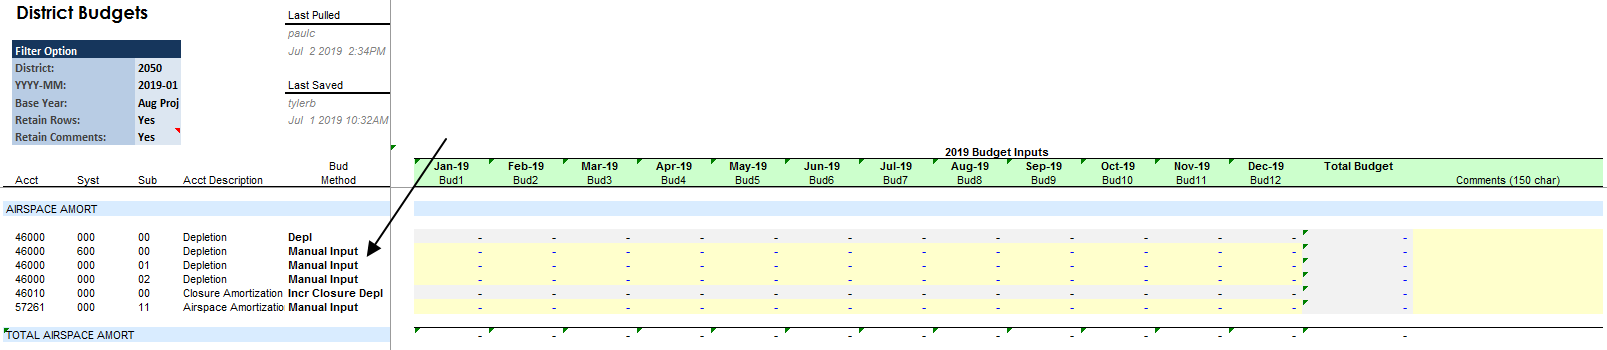
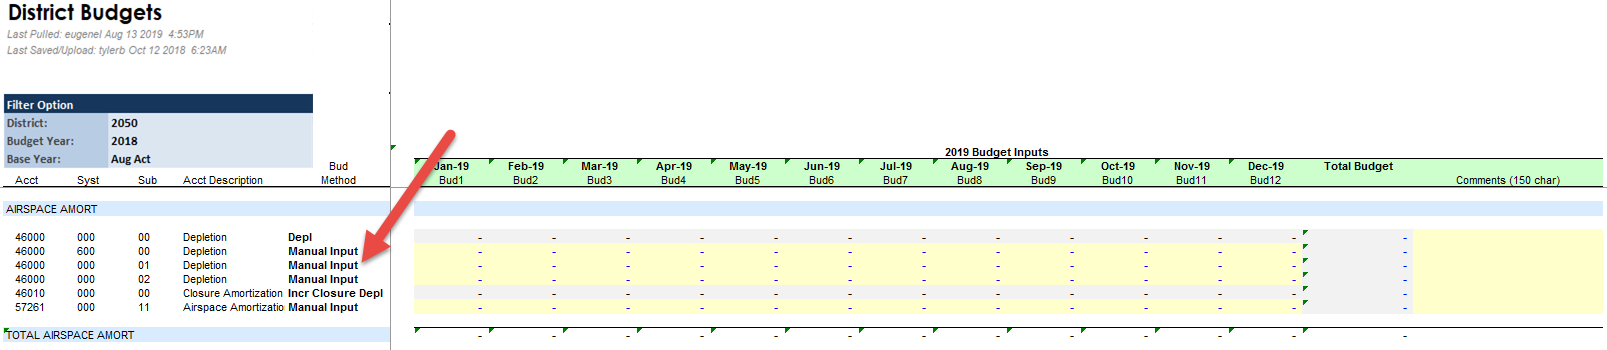
Update(BudTemp)Text and images

diff --git a/bApps/InterjectTraining/Budget/BudgetTemplate.md b/bApps/InterjectTraining/Budget/BudgetTemplate.md
@@ -11,47 +11,47 @@ description:
 
 ## Filters
 ### Template Setup
-The following filters are used to setup the template.  These filters will be hidden after the first time data is pulled for this report.  They will determine from where intial data is pulled and at what level the district will be budgeted at.
+The **Build Based On** and **Account Level** filters are used to set up the template. They determine where intial data is pulled from and at what level the district will be budgeted. Once data is pulled, filters will be hidden from the report. 
 
 ![](/images/WCNTraining/Budget/FilterOptions1.png)
 
 
 #### Build Based On 
-*Required*. Drop-down filter includes *Retain User Input*, *Last Saved/Upload*, *Base Year* and "Reset(Clear All Data)". This parameter control the data is pull and what is cleared on a pull in the **YYYY Budget Input** seciton.
+*Required*. There is a drop-down filter that includes *Retain User Input*, *Last Saved/Upload*, *Base Year* and "Reset(Clear All Data)". This parameter controls what data is pulled and what is cleared on a pull in the **YYYY Budget Input** section. Each selection is explained in detail below.
 
 ![](/images/WCNTraining/Budget/FilterOptions_BuildBaseOn.png)
 
-* **Retain User Input** - After the intial run/pull **Build Based On** parameter will automatically be set to *Retain User Input*, to preserve your file changes.  Will not override user formulas and values in the  **YYYY Budget Input** section.  This is the default parameter after intial run/pull.    
-* **Last Saved/Upload** - Will bring the last saved amounts into the  **YYYY Budget Input** section. It will replace and/or clear values and formulas not saved. 
-* **Base Year** - Will bring the "Base Year" amounts same as in the **YYYY Actuals & Projections** section into the  **YYYY Budget Input** section. It will replace and/or clear any values and formulas not saved. 
-* **Reset (Clear All Data)** - Will clear all data related to the distict including budget user input section. When running this option select the "Clear" option in the "Pull Datal Control" window. 
+* **Retain User Input** - After the intial run/pull, the **Build Based On** parameter will automatically be set to *Retain User Input*, preserving any file changes. Values in the  **YYYY Budget Input** section and formulas entered by the user will not be overridden. This is the default parameter after an intial run/pull.    
+* **Last Saved/Upload** - This will bring the last saved amounts into the  **YYYY Budget Input** section. It will replace and/or clear values and formulas that haven't been saved. 
+* **Base Year** - This will bring in the "Base Year" amounts just as the **YYYY Actuals & Projections** section does into the  **YYYY Budget Input** section. It will replace and/or clear any values and formulas that haven't been saved. 
+* **Reset (Clear All Data)** - This will clear all data related to the distict, including from the budget user input section. When running this option, select "Clear" in the "Pull Datal Control" window. 
  
 #### Account Level 
 
-*Required*. Used in the pull. Drop-down filter includes *Summary (xxxxx)* and *Full GL Account (xxxxx-xxx-xx)*.  This filter determines the default account level that the detail is summarized at. 
+*Required*. Used in pulling data ti determine the default account level at which the detail is summarized. The drop-down filter includes the choice of *Summary (xxxxx)* or *Full GL Account (xxxxx-xxx-xx)*. 
 
 ![](/images/WCNTraining/Budget/FilterOptions_AccountLevel.png)
 
 * **Summary (xxxxx)** will summarize detail at the natural account level. 
-* **Full GL Account (xxxxx-xxx-xx)** will show Account, System and Sub-System. 
+* **Full GL Account (xxxxx-xxx-xx)** will show Account, System, and Sub-System. 
 
-#### Required
+#### Other Required Filters 
 
-All other filter can be left as defaulted however user must indicate **District** and the **Budget Year**.  
+The following additional *required* and *optional* filters are described below:  
 
 ![](/images/WCNTraining/Budget/FilterOptions2.png)
 
-* **District** - *Required*. Individual district. Cannot use district ranges or groupings
-* **Budget Year** - *Required*. Year that is currently being budgeted for.
-* [ **Base Year** ](#base-year-and-fincube) - *Required*. Used in the pull. Drop-down filter ranges from *Aug Proj -> Dec Act*<br><br>
+* **District** - *Required*. Designates the individual district. You cannot use district ranges or groupings.
+* **Budget Year** - *Required*. The year currently being budgeted for.
+* [ **Base Year** ](#base-year-and-fincube) - *Required*. Used in the pull. The drop-down filter ranges from *Aug Proj -> Dec Act*<br><br>
 
 #### Additional:
 
 ![](/images/WCNTraining/Budget/FilterOptions3.png)
 
-* **Retain Comments** - *Required*. Drop-down filter includes *Yes* and *No*. If *Yes*, pulling on the report will not clear comments not yet saved to the database.
+* **Retain Comments** - *Required*. This drop-down filter includes *Yes* and *No*. If you choose *Yes*, pulling on the report will not clear unsaved comments.
 * **Currency** - *Optional*. Blank defaults to your home district currency. Other options are USD and CAD.
-* **Insert at End** - *Required*. Drop-down filter includes *Yes* and *No*. If *Yes* and **Retain Rows** is also *Yes*, then new accounts get added at the bottom of their grouping.<br><br>
+* **Insert at End** - *Required*. Drop-down filter includes *Yes* and *No*. If set to *Yes*, new accounts get added at the bottom of their grouping.<br><br>
 
 ## Input Field Explanations
 
@@ -68,9 +68,9 @@ If we change the **Base Year** to *Aug Act*, August will pull in as Actual inste
 
 ## How Templates Work
 
-When coming into the template users will have the option to set the starting point by selecting how data is popuated into **YYYY Budget Inputs** and the Account Level at which the detail is populated. Once the report is pulled these filter options will no longer be avalible. 
+When coming into the template, users will have the option to set the starting point by selecting how data is popuated into **YYYY Budget Inputs**, as well as the Account Level at which the detail is populated. Once the report is pulled these filter options will no longer be avalible. 
 
-If a new account is added to the Template with **Retain Rows** set to *Yes*, the setting for **Insert at End** dictates whether the account gets placed normally, in order, or gets inserted at the end.
+If a new account is added to the Template, how **Insert at End** is set dictates whether the account gets placed normally, in order, or gets inserted at the end.
 
 For example, if *50045-600-00* is added to the Template while **Insert at End** is set to *No*, it is placed between the 50035 and 50050 accounts.
 
@@ -83,28 +83,22 @@ For example, if *50045-600-00* is added to the Template while **Insert at End** 
 A new feature to the Budget Template is the ability to pull/save to Detail and Summary level accounts at the same time.
 
 #### Pulling Summary and Detail levels together
-On the pull, the **Insert By Full Acct** drop-down option dictates if the missing accounts are added on the Summary or Detail level. When **Retain Rows** is set to *Yes*, you can pull in accounts on a different level than the ones you already have in your template.
+Since rows are retained by default, even after you've chosen the *Summary* template you can still add detail rows. Simple insert additional rows beneath the account and enter the system and subsystem values in thier respective columns. The data will populate when the report is pulled again.
 
-In the screenshot below, we see four account combinations for the 36009 account.
+In the screenshot below, we see four account combinations for the 36009 account. And after the data is pulled, we see those rows populated
 
 ![](/images/WCNTraining/Budget/BudgetTemplate_SummaryDetailPullStart.png)
 
-With **Retain Rows** set to *Yes* and **Insert By Full Acct** set to *No*, we delete the 36009-000-00 and 36009-600-00 rows.
-
-![](/images/WCNTraining/Budget/BudgetTemplate_SummaryDetail_SummaryPrep.png)
-
-Now when we pull, the two detail rows 36009-000-00 and 36009-600-00 are summarized into one row, with the account header of 36009 alone. 36009-000-00 had $1,000 amounts for all months, and 36009-600-00 had $2,000 for all months. Together they have $3,000 for all months.
+<!-- Now when we pull, the two detail rows 36009-000-00 and 36009-600-00 are summarized into one row, with the account header of 36009 alone. 36009-000-00 had $1,000 amounts for all months, and 36009-600-00 had $2,000 for all months. Together they have $3,000 for all months. -->
 
 ![](/images/WCNTraining/Budget/BudgetTemplate_SummaryDetail_SummaryPull.png)
 
->**Things to Remember**<br>
->For this to work, **Retain Rows** MUST be set to *Yes*. Otherwise, if **Retain Rows** is set to *No* and you pull, it will pull in ALL accounts on the Detail Level.
 
 #### Saving Summary and Detail levels together
 
-When saving with Summary and Detail level accounts on the same template, the Summary level accounts are saved to the *000-00* version of the summarized account. Depending on the **Zero Out Missing Accts** setting, the Detail level accounts already in the database will either be zeroed out or remain unaltered.
+When saving with Summary and Detail level accounts on the same template, the Summary level accounts are saved to the *000-00* version of the summarized account. Any missing detail level accounts already in the database will be zeroed out.
 
-Using the example accounts from above, let's update the summarized account for 36009 to $3,500 for all months.
+<!-- Using the example accounts from above, let's update the summarized account for 36009 to $3,500 for all months.
 
 ![](/images/WCNTraining/Budget/BudgetTemplate_SummaryDetailSaveStart.png)
 
@@ -114,14 +108,14 @@ First we save with **Zero Out Missing Accts** set to *No*, and pull in all detai
 
 The Budget saved to 36009-000-00 is the *offset* of $3,500 per month (summarized amount) and $2,000 per month for 36009-600-00 (amounts in database). This updated the $1,000 in the database 36009-000-00 to $1,500, so that the summarize amount matches what was saved AND preserves the amount already assigned to 36009-600-00.
 
-If we had set **Zero Out Missing Accts** to *Yes* instead, the pull on detail would have looked like this instead.
+If we had set **Zero Out Missing Accts** to *Yes*, the pull on detail would have looked like this instead.
 
 ![](/images/WCNTraining/Budget/BudgetTemplate_SummaryDetail_ZeroOutYes.png)
 
-Now 36009-000-00 has the full $3,500 for each month, and 36009-600-00 has been zeroed out because it was not in the template.
+Now 36009-000-00 has the full $3,500 for each month, and 36009-600-00 has been zeroed out because it was not in the template. -->
 
 >**Things to Remember**
->* If you delete other accounts from the template, they will be zeroed out as well if **Zero Out Missing Accts** is set to *Yes* (even if they do not have a summary level account present in the template).
+>* If you delete other accounts from the template, they will be zeroed out as well if (even if they do not have a summary level account present in the template).
 >* When saving with a Summary level account (only Acct is present), you cannot also save to the same account with *000-00* included. The save thinks the two accounts are the same, and they will be marked as duplicates.
 
 ## The Autocalcs
@@ -150,7 +144,7 @@ In this example, the *Corp Cutoff* date in Control Center is set to 11/3/2018.
 
 We then try and upload a change to Budget using the **Budget Template** tool (after this date), and get the following popup message.
 
-![](/images/WCNTraining/Budget/BudgetTemplate_AfterCorpCutoffSave.png)
+<!-- ![](/images/WCNTraining/Budget/BudgetTemplate_AfterCorpCutoffSave.png) -->
 ![](/images/WCNTraining/Budget/BudgetTemplate_AfterCorpCutoff.png)
 
 Notice our changes have been saved to Target Center 2.0, but they are not yet synced to Interject. Once the *Corp Cutoff* date is set to a Date/Time after our change or BOD, this change will be synced to Interject.
